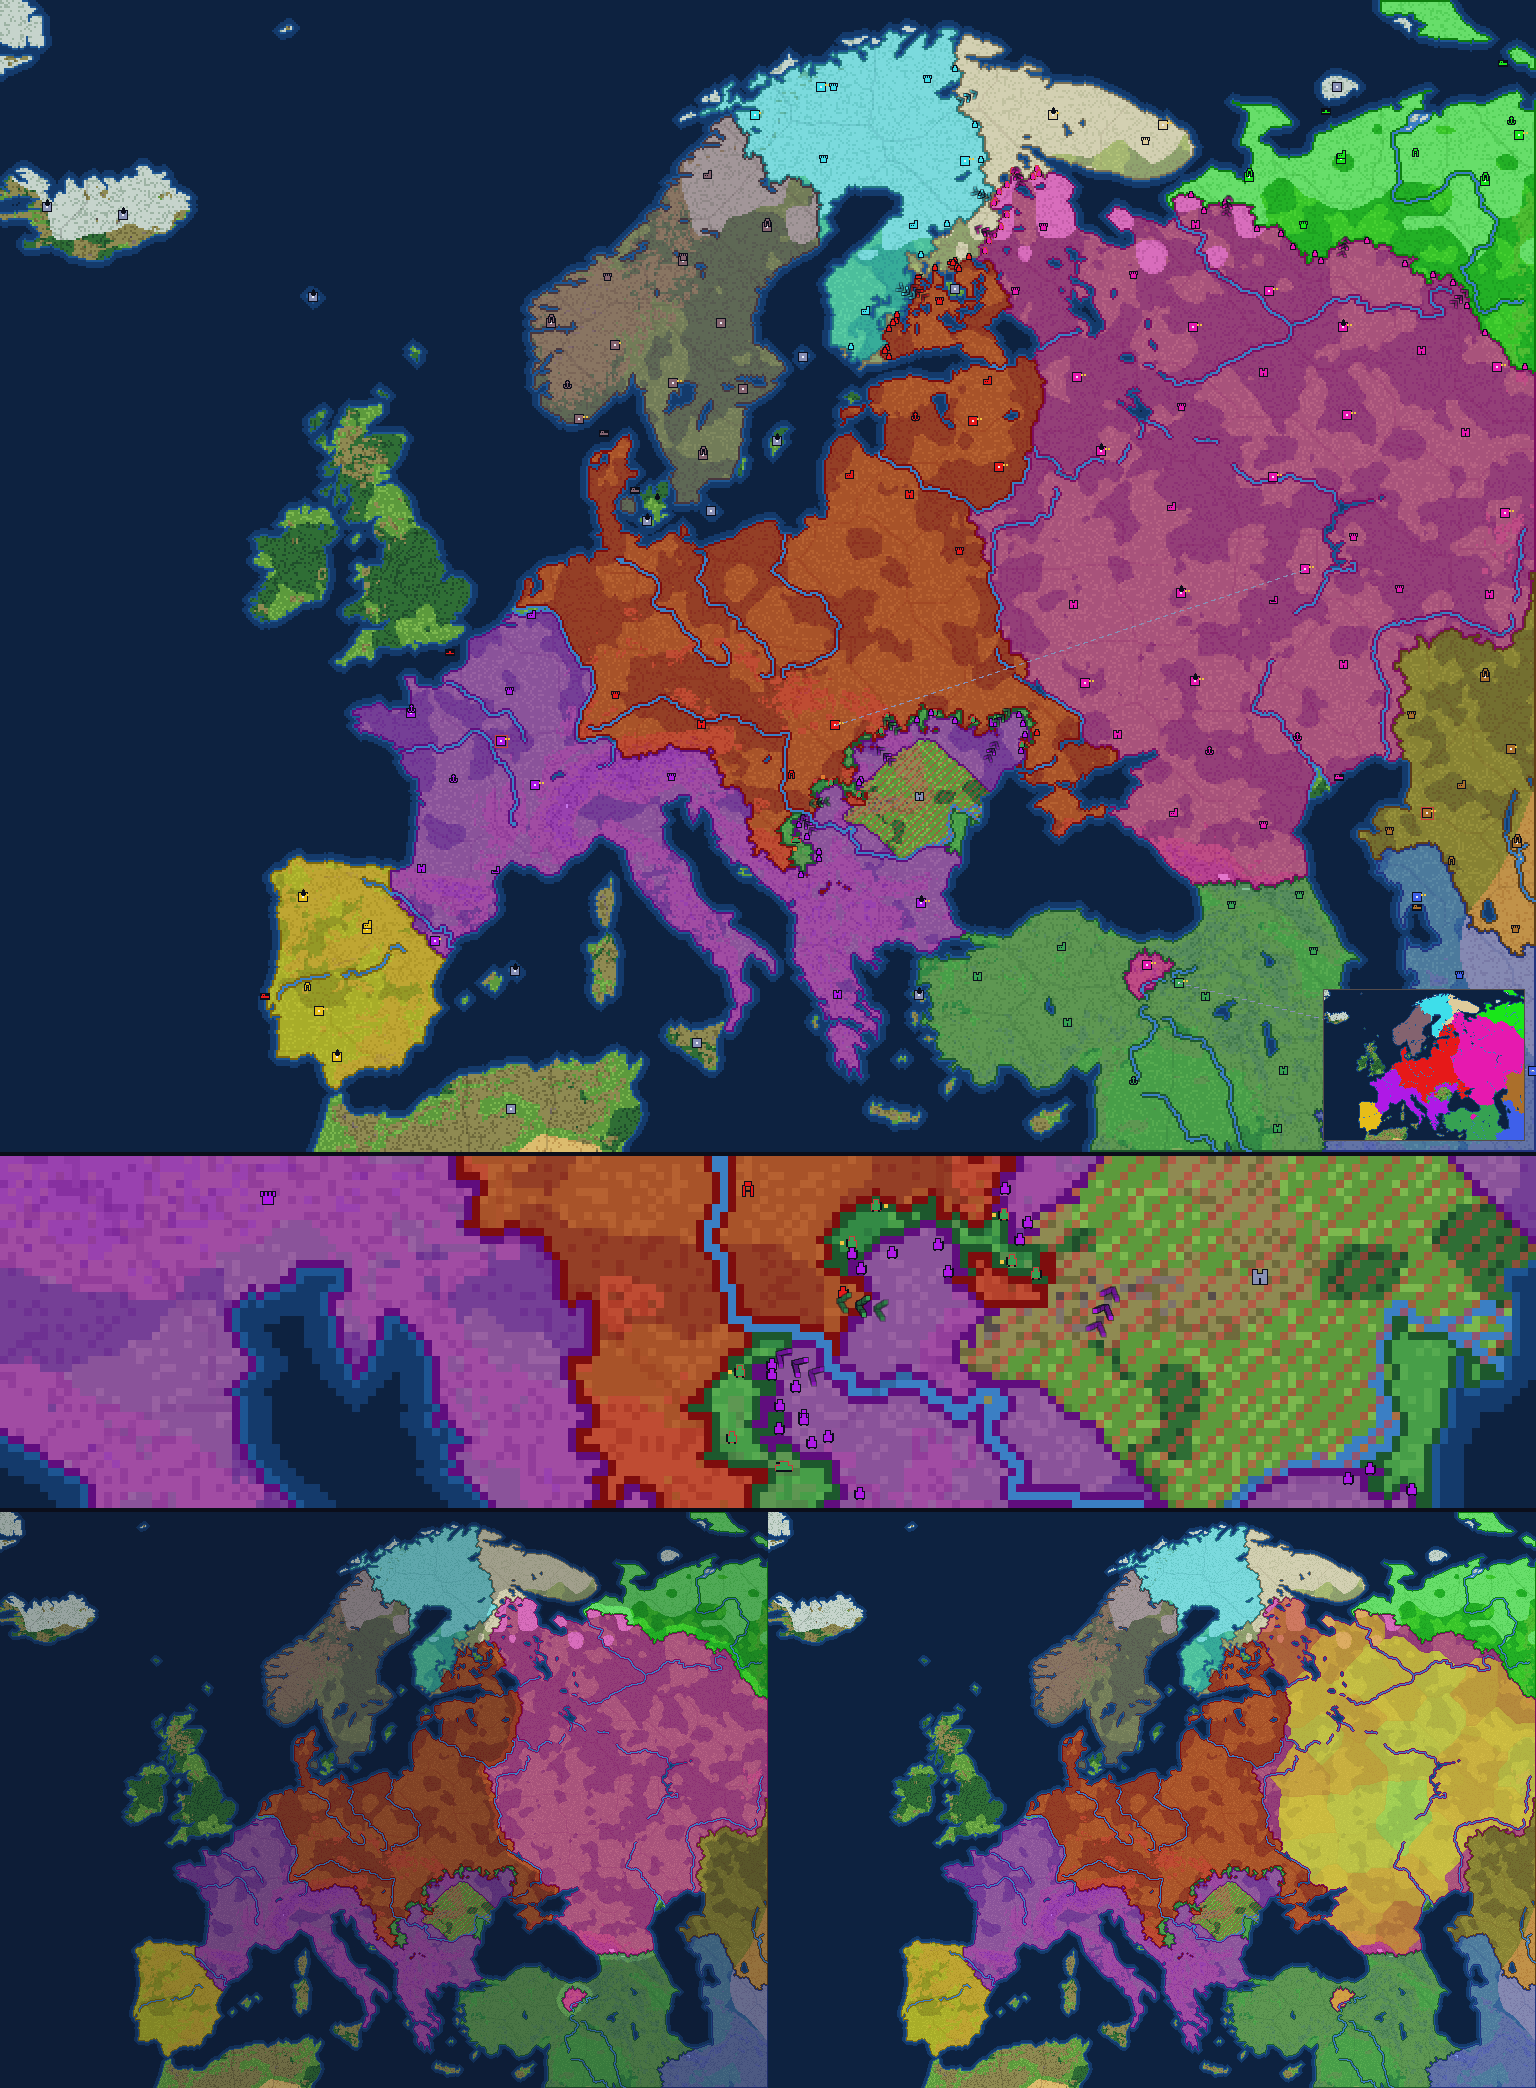
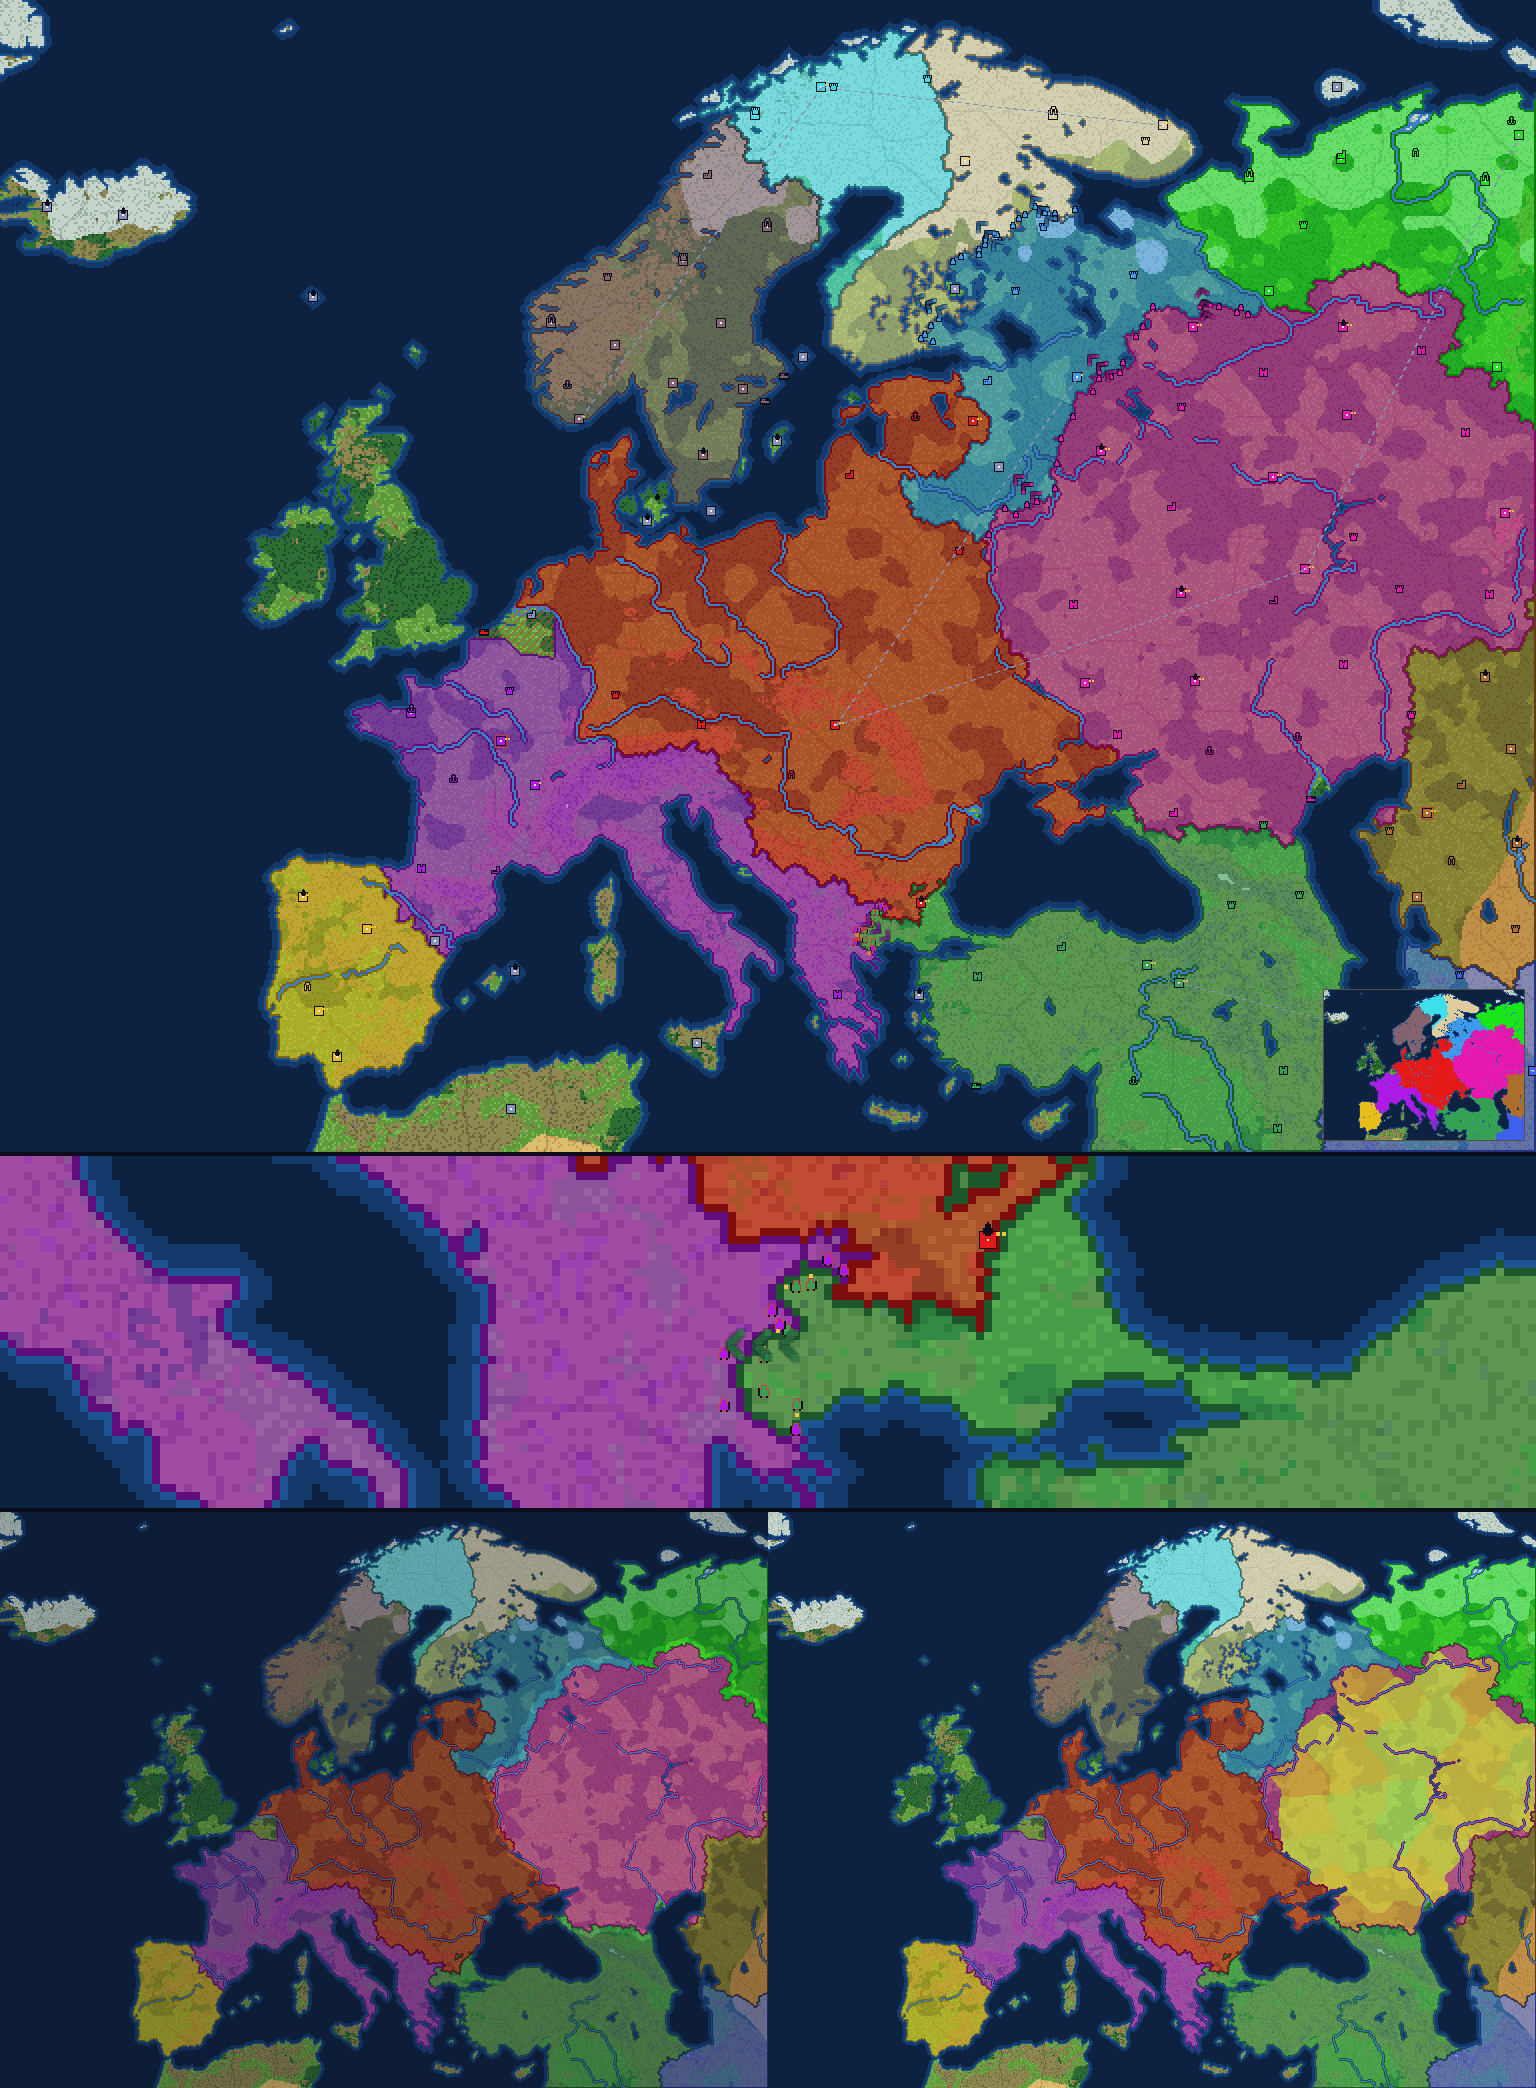
Фронтир §15б: Инженер — скидка на здания 25% → 20%; цифры отчёта баланса (20 партий) и двух арен по 80 партий в BALANCE.md; CHANGELOG, README, STUDIO_CHECK, ART_LIST, CLAUDE.md, превью stage-15b
Claude-Session: https://claude.ai/code/session_01UGDKG2STYKZggfA2dbPhuH

diff --git a/frontir/docs/BALANCE.md b/frontir/docs/BALANCE.md
@@ -512,3 +512,34 @@
 меняются местами старта): Маршал 22.5%, Адмирал 20.0%, Разведчик 22.5%, **Инженер 35.0%** (среднее место 2.23,
 лучшее) — ровно на границе ±10%, в трёх прогонах одинаково. Числа способностей не трогали (решение геймдизайнера).
 
+## Правка §15б (2026-11-06)
+
+| Параметр | Было | Стало | Почему |
+|---|---|---|---|
+| Units.Fighter.oil / Bomber.oil | 30 / 40 | 20 / 25 | решение геймдизайнера: ботам не хватало нефти на авиацию |
+| Combat.OpeningSec / OpeningSpeedMul | — | 20 с / ×1.4 | «Первый удар» — решительное начало войны |
+| Events.FirstSec / MinGapSec / MaxGapSec | 180 / 180 / 240 | 150 / 150 / 200 | динамика |
+| Combat.FrontSpeedMul | 0.3 | 0.25 | «Первый удар» и события ускорили войны (16.1 мин при 0.3) |
+| Commanders.BuildDiscount (Инженер) | 0.25 | 0.20 | правило геймдизайнера: Инженер выше 33% на арене |
+| Боты: запас нефти на первые самолёты, истребитель над фронтом | — | `BotBrain.oilForPlanes`, `frontCover` | у Генерала с аэродромом было 10–13 нефти при $20–100 тыс. |
+| Цель «1–2 ракеты» | — | снята | решение геймдизайнера: 0.6–0.8 за партию принято |
+
+Итог — `lune run tools/balance_report 20` (20 партий «Европы», 12 держав, итоговый код; 10 партий дают разброс
+16–20 мин даже без правок темпа, поэтому 20):
+- Длина матча: средняя **17.3 мин** (медиана 16.8, от 8.2 до 25.0) — на 0.7 мин ниже цели 18–22.
+- Личности: Торговец 1.83, Миролюбивый 1.18, Агрессор 0.92, Флотоводец 0.78, Хитрец 0.25.
+- Предательства в первые 10 минут — в 17 партиях из 20 (2.6 за партию).
+- Самолёты: за первые 10 минут строится 0.8 на партию; сбито за матч 0.1, первый — на 14.2 мин;
+  **партий со сбитым до 15-й минуты — 1 из 20** (цель не достигнута).
+- Ракет 0.6 за партию.
+
+Арена генералов — `lune run tools/arena_commanders 80 Europe Normal Cunning <база сидов>` (новые сиды):
+
+| Прогон | Маршал | Адмирал | Разведчик | Инженер |
+|---|---|---|---|---|
+| сиды 20053…24240, скидка Инженера 25% | 28.7% | 16.2% | **12.5%** | **42.5%** |
+| сиды 40053…44240, скидка Инженера 20% | 25.0% | 16.2% | 17.5% | **41.2%** |
+
+Скидка на здания силу Инженера почти не меняет (42.5% → 41.2%) — дело, видимо, в способностях (укрепрайон,
+десант), а их числа не трогаем (решение геймдизайнера).
+

diff --git a/frontir/docs/CHANGELOG.md b/frontir/docs/CHANGELOG.md
@@ -1,5 +1,22 @@
 # Changelog
 
+## Правка §15б — зрелищная война, динамика, решения после PR #16
+- **Война красивее** (`Render/WarFxLayer`, расчёты — чистый `WarFx`, числа — `Config.Render.WarFx`):
+  баннер «⚔ ВОЙНА ⚔» с цветами и именами держав (крупный — если война ваша или союзника), искры на общей границе,
+  красная пульсирующая виньетка, когда напали на вас; конец мобилизации — «НАСТУПЛЕНИЕ!» и искры цветом нападающего;
+  шевроны наступления на каждом видимом фронте (быстрее и ярче у побеждающего и в «Первом ударе»); белые вспышки
+  клеток, отнятых у державы. На телефоне меньше (`Config.Render.Phone`). Стрелки — и в `tools/match_preview`
+  (превью `docs/previews/stage-15b.png`).
+- **Динамика:** «Первый удар» — объявивший войну первые 20 с после мобилизации наступает ×1.4
+  (`MatchSim.openingMul`); события с 2:30 и каждые 2:30–3:20; чтобы темп остался 18–22 мин — фронт ×0.3 → ×0.25.
+- **Самолёты** дешевле в нефти: истребитель 30 → 20, бомбардировщик 40 → 25. Боты с аэродромом берегут нефть на
+  первые самолёты (`BotBrain.oilForPlanes`), истребитель Генерала / Хитреца / Агрессора в войне прикрывает фронт,
+  где враг наступает (`AirView.homeFighter` / `frontCover`).
+- **Инженер:** скидка на здания 25% → 20% (арена 80 партий: 42.5% → 41.2%, см. BALANCE.md).
+- **Инструменты:** `tools/arena_commanders … [база сидов]` — новые сиды; `tools/balance_report` — сколько сбито
+  за матч, когда первый и в скольких партиях до 15-й минуты.
+- Тесты: `WarFx.spec` (4), «Первый удар» в `Wars.spec`, авиация ботов в `Air.spec`.
+
 ## Сводная правка, часть 4 — перед публикацией
 - **`docs/PUBLISH.md`** — всё, что делается руками: настройки игры (Allow Mesh / Image APIs, Studio Access to API
   Services, DataStore), все геймпассы и продукты с ценами и куда вписать id, звуки и музыка, арт по приоритету,
